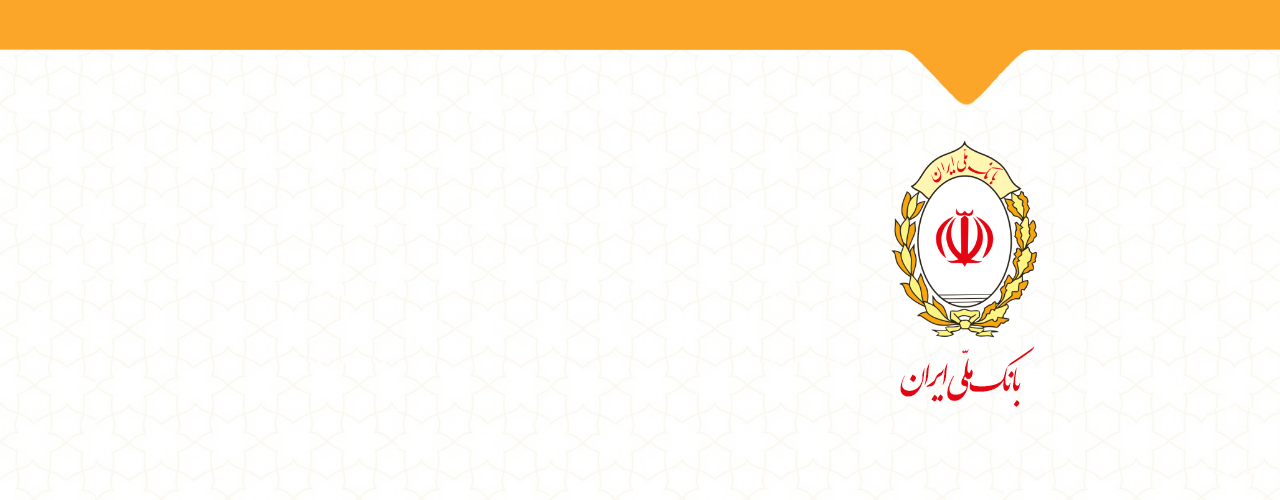
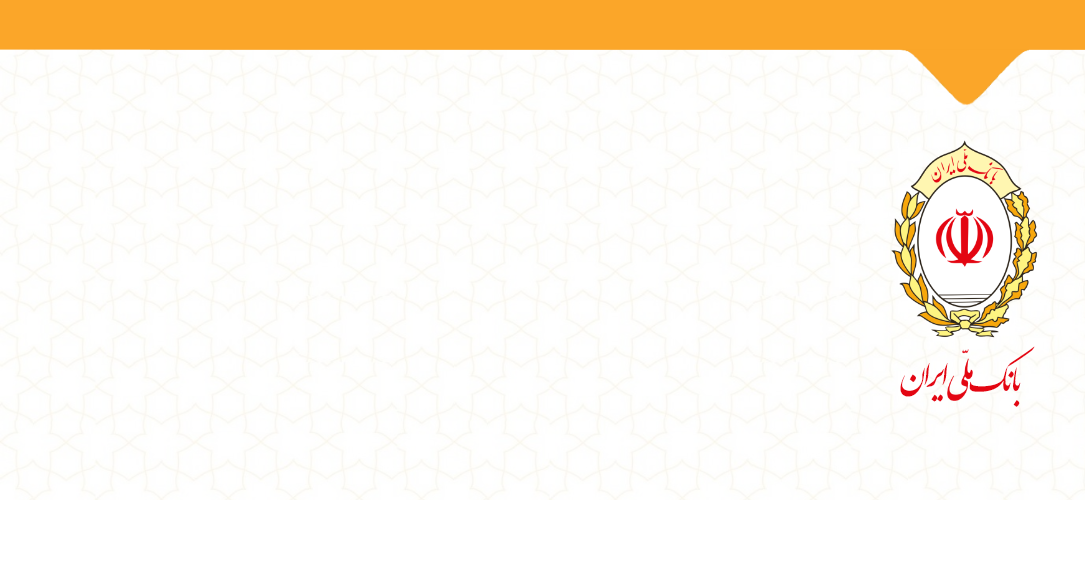
img fixed

diff --git a/src/layouts/Authentication.js b/src/layouts/Authentication.js
@@ -24,7 +24,7 @@ export default function Authentication() {
                 <div
                     style={{
                         backgroundImage: "url(" + getBgImage() + ")",
-                        backgroundSize: "cover",
+                        backgroundSize: "contain",
                         height: "100vh"
                     }}
                 >
